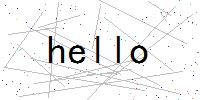
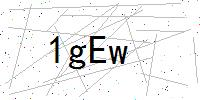
code

diff --git a/yuanzhan/VerificationCode/Program.cs b/yuanzhan/VerificationCode/Program.cs
@@ -13,18 +13,24 @@ namespace VerificationCode
     {
         static void Main(string[] args)
         {
-            Bitmap image = new Bitmap(200, 100);
+            Vfcode();
+        }
+        static void Vfcode()
+        {
+            Bitmap image = new Bitmap(200, 100);//生成画布
             Graphics g = Graphics.FromImage(image);
-            g.Clear(Color.White);
-            Random random = new Random();
+            g.Clear(Color.White);//绘画背景颜色
+            Random random = new Random();//随机生成器
+                                         // 绘画噪音线
             for (int i = 0; i < 20; i++)
             {
                 int x1 = random.Next(image.Width);
                 int y1 = random.Next(image.Height);
-                int x2 = random.Next(image.Width);               
+                int x2 = random.Next(image.Width);
                 int y2 = random.Next(image.Height);
                 g.DrawLine(new Pen(Color.Silver), x1, y1, x2, y2);
             }
+            // 绘画噪音点
             for (int i = 0; i < 150; i++)
             {
                 int x = random.Next(image.Width);
@@ -32,9 +38,26 @@ namespace VerificationCode
 
                 image.SetPixel(x, y, Color.FromArgb(random.Next()));
             }
-            g.DrawString("hello", new Font("黑体",30),new SolidBrush(Color.Black),new PointF(40,30));
+            string[] str = new string[4];//定义验证码长度
+            string serverCode = "";//装验证码
+            string[] a = new string[62] { "0", "1", "2", "3", "4", "5",
+                "6", "7", "8", "9", "A", "B", "C", "D", "E", "F", "G",
+                "H", "I", "J", "K", "L", "M", "N", "O", "P", "Q", "R",
+                "S", "T", "U", "V", "W", "X", "Y", "Z", "a", "b", "c",
+                "d", "e", "f", "g", "h", "i", "j", "k", "l", "m", "n",
+                "o", "p", "q", "r", "s", "t", "u", "v", "w", "x", "y", "z" };
+            for (int i = 0; i < 4; i++)
+            {
+                str[i] = a[random.Next(62)];
+            }
+            foreach (string s in str)//遍历赋值
+            {
+                serverCode += s;
+            }
+            g.DrawString(serverCode, new Font("黑体", 30), new SolidBrush(Color.Black), new PointF(40, 30));
             image.Save(@"F:\\xiangmu\hello.jpg", ImageFormat.Jpeg);
         }
+
     }
 }
 
